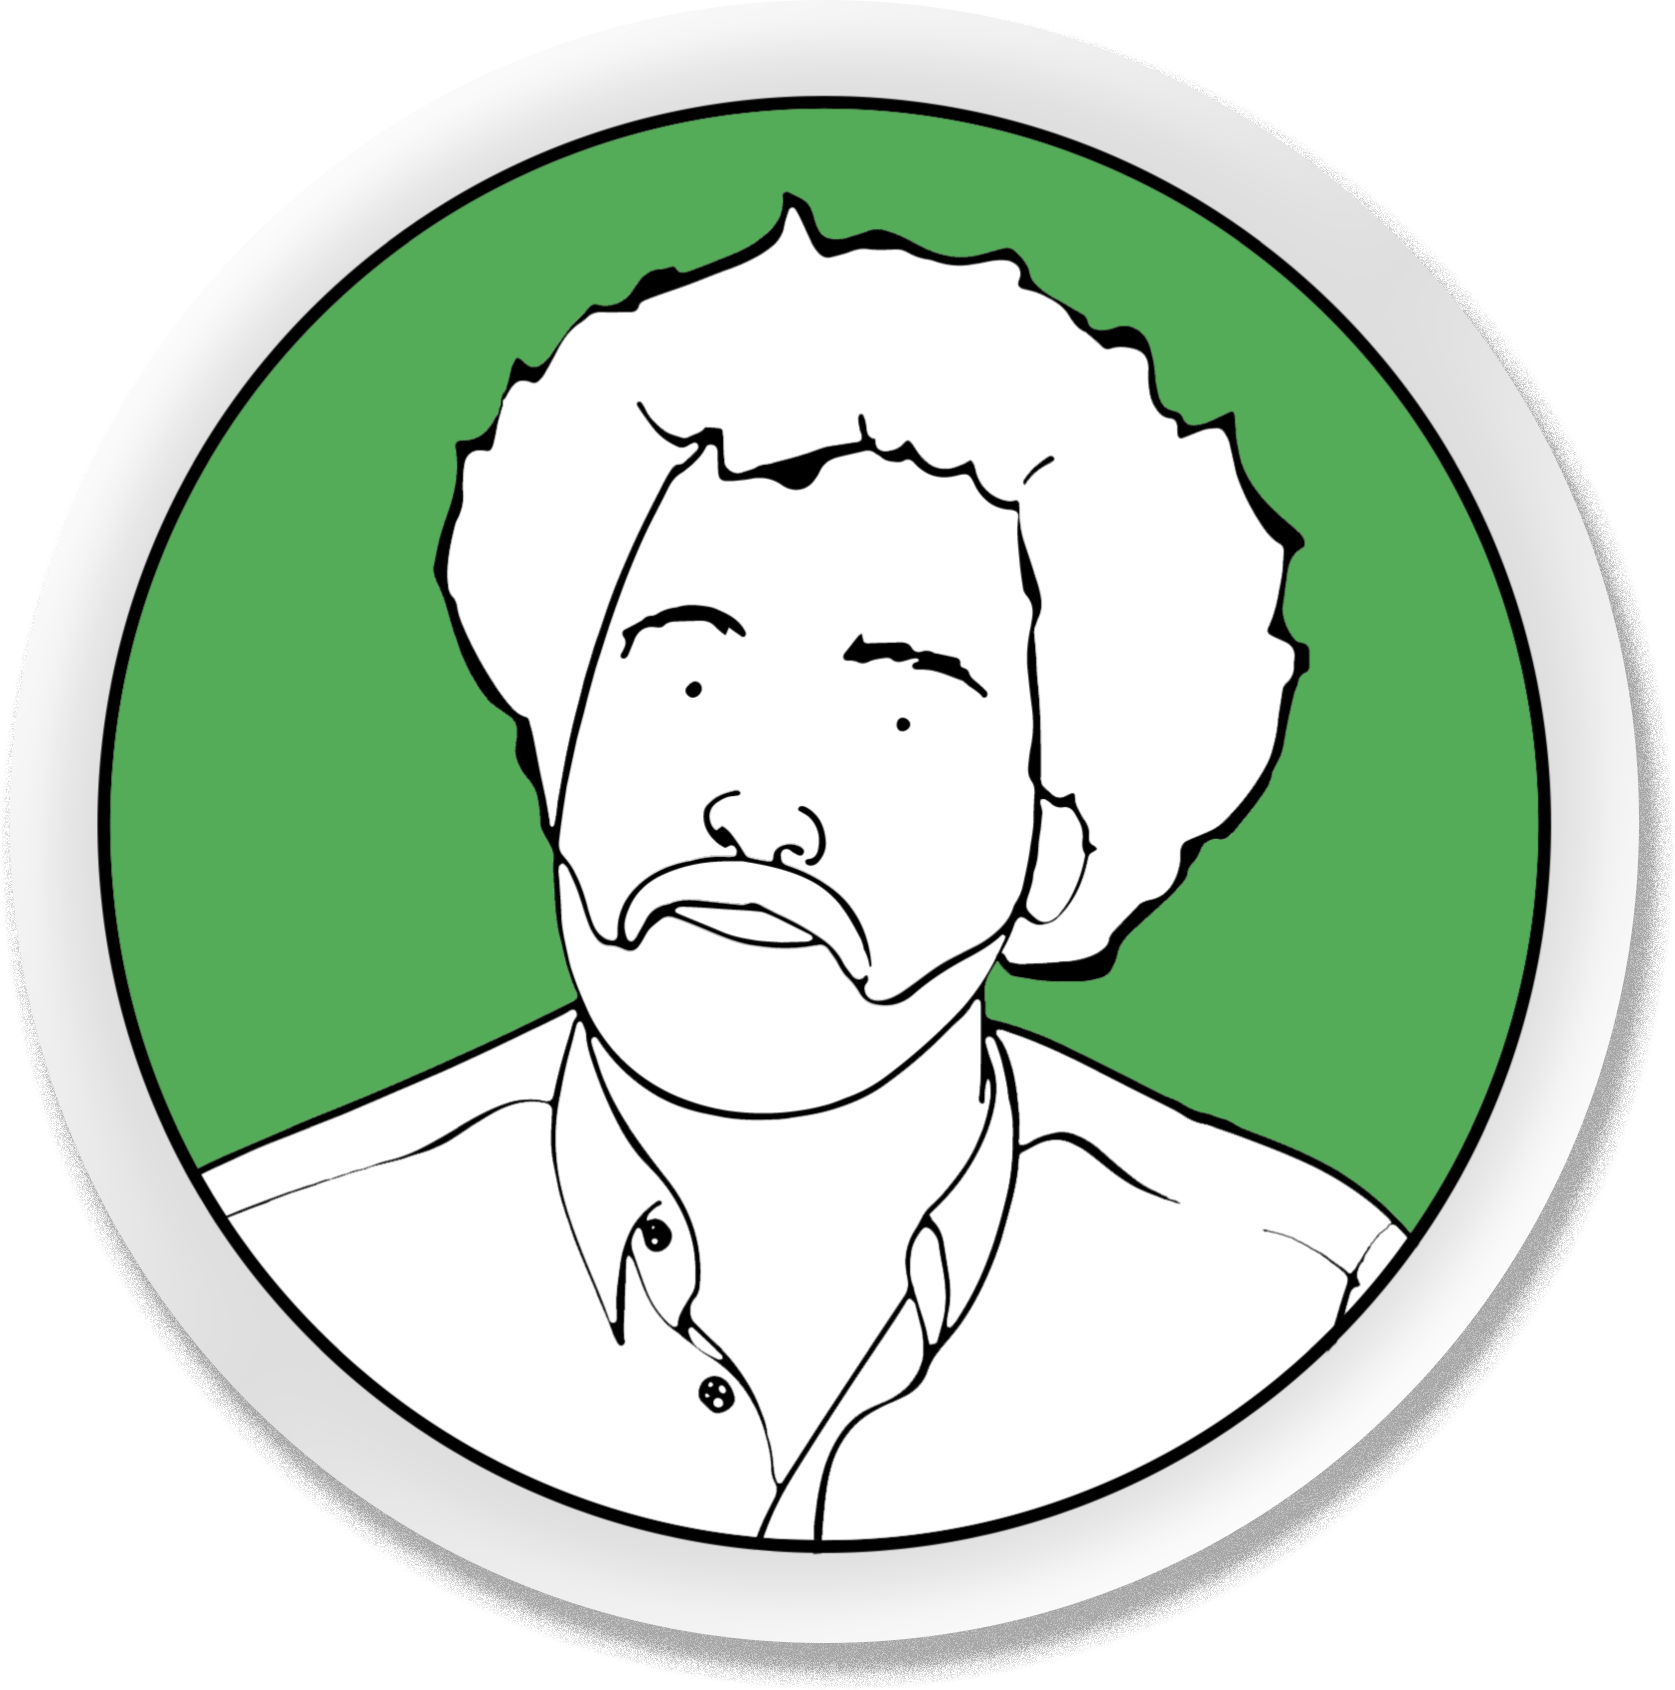
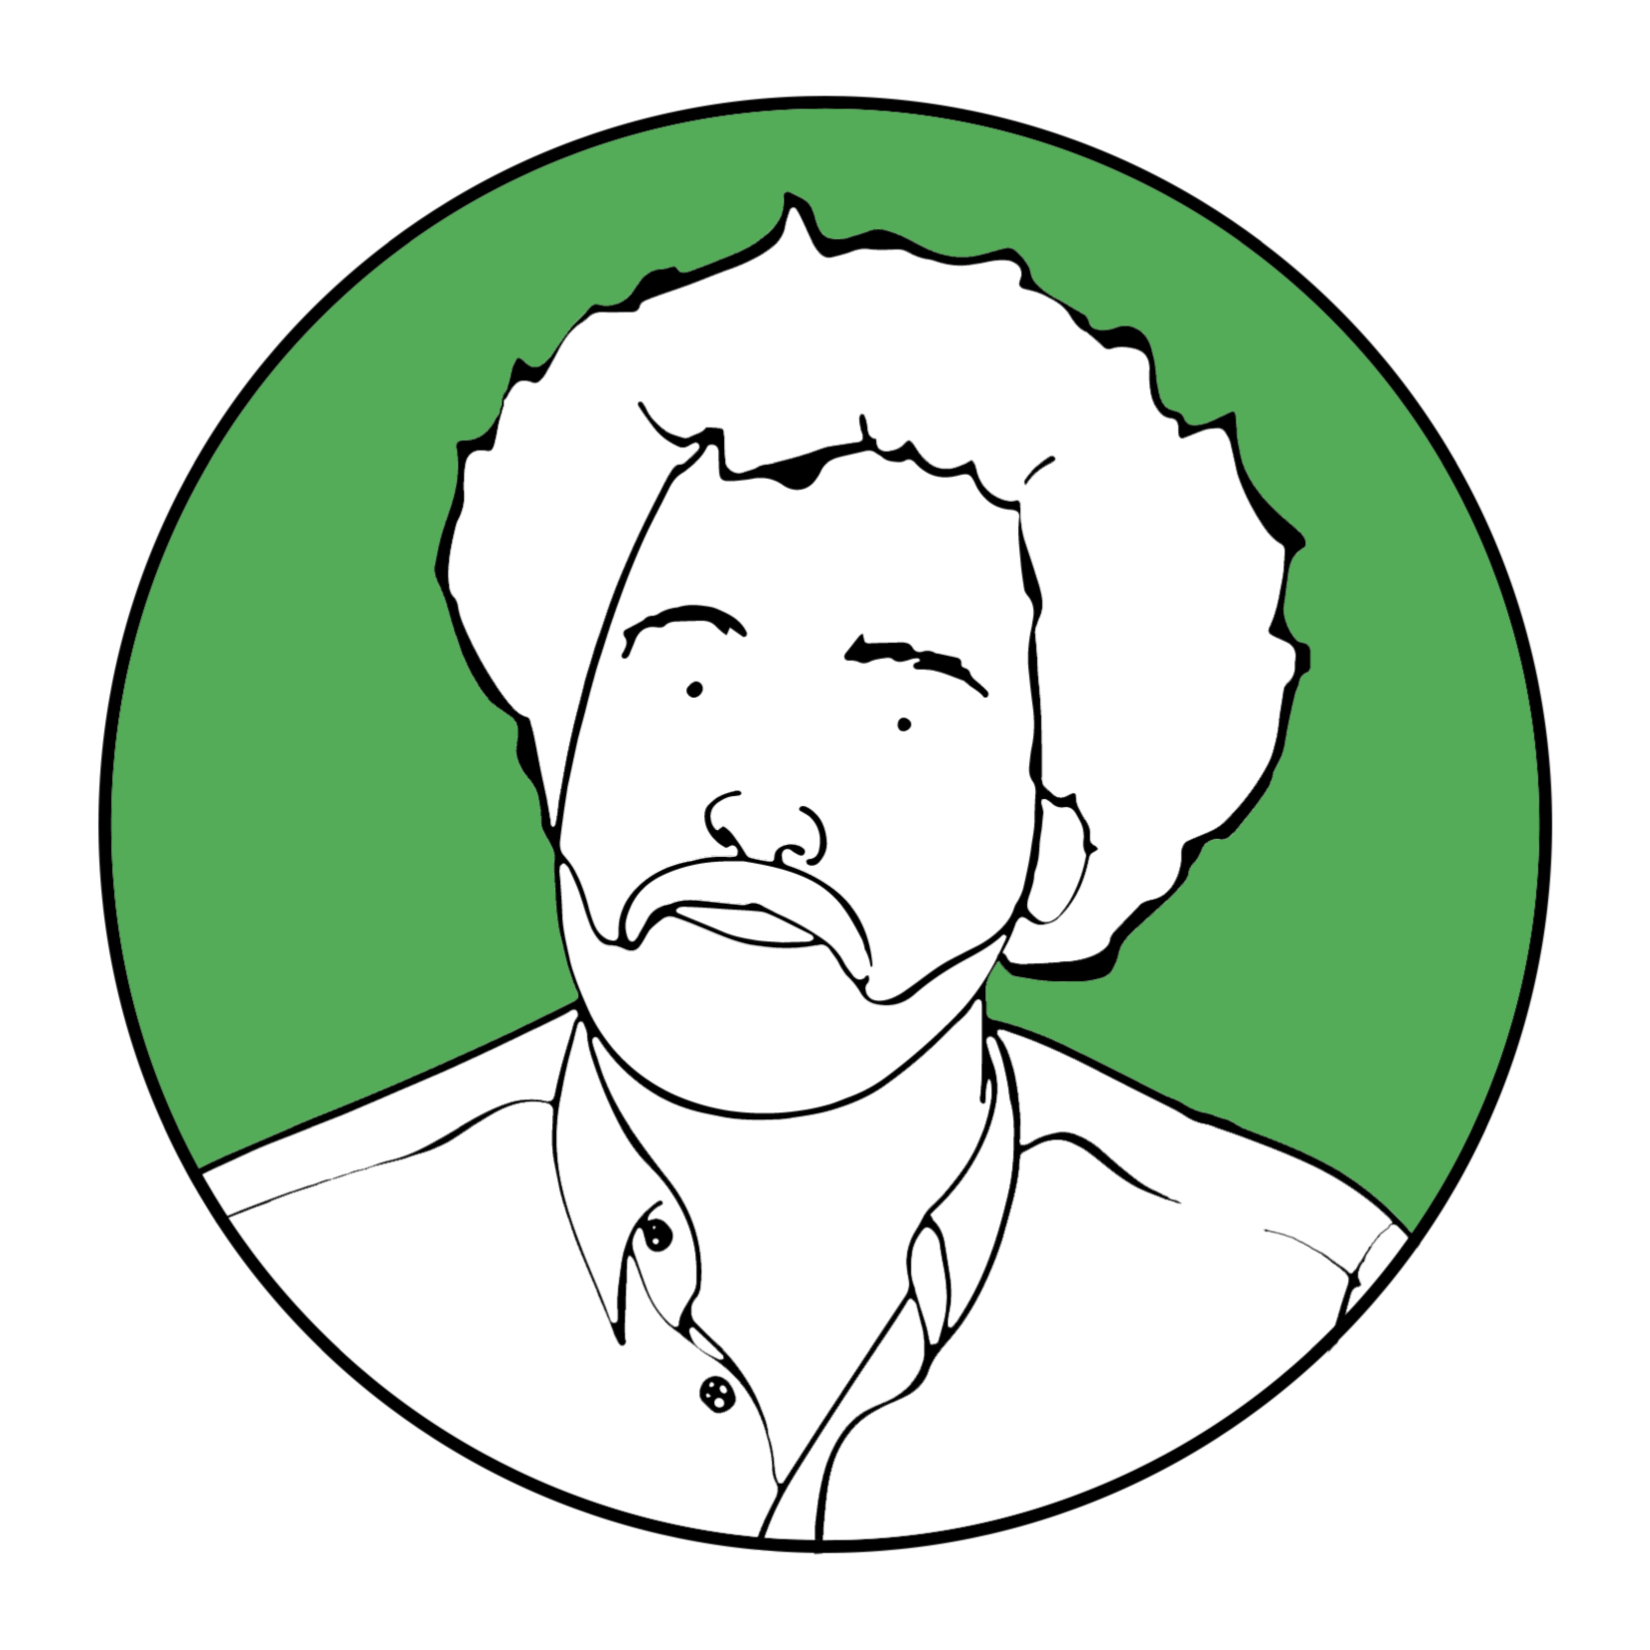
pngs profiles

diff --git a/public/about/index.html b/public/about/index.html
@@ -33,7 +33,7 @@
 <ul>
   <li>
     <a class="about-item" href="http://erictgraham.com">
-      <img class="profile" src="http://brentbiglin.github.io/public/images/eric.svg">
+      <img class="profile" src="http://brentbiglin.github.io/public/images/eric.png">
       <br>Eric Graham</a>
       <br> CEO & Producer
   </li>
@@ -57,7 +57,7 @@
   </li>
   <li>
     <a class="about-item" href="http://kristengraham.com">
-      <img class="profile" src="https://icon.now.sh/tag_faces/64/54AC58">
+      <img class="profile" src="http://brentbiglin.github.io/public/images/kristen.png">
       <br>Kristen Graham</a>
       <br>Graphic & Brand Designer
   </li>

diff --git a/content/About.md b/content/About.md
@@ -43,7 +43,7 @@ Here at QwertyCat Consulting, we want to do the best work for the best clients. 
   </li>
   <li>
     <a class="about-item" href="http://kristengraham.com">
-      <img class="profile" src="https://icon.now.sh/tag_faces/64/54AC58">
+      <img class="profile" src="http://brentbiglin.github.io/public/images/kristen.png">
       <br>Kristen Graham</a>
       <br>Graphic & Brand Designer
   </li>
